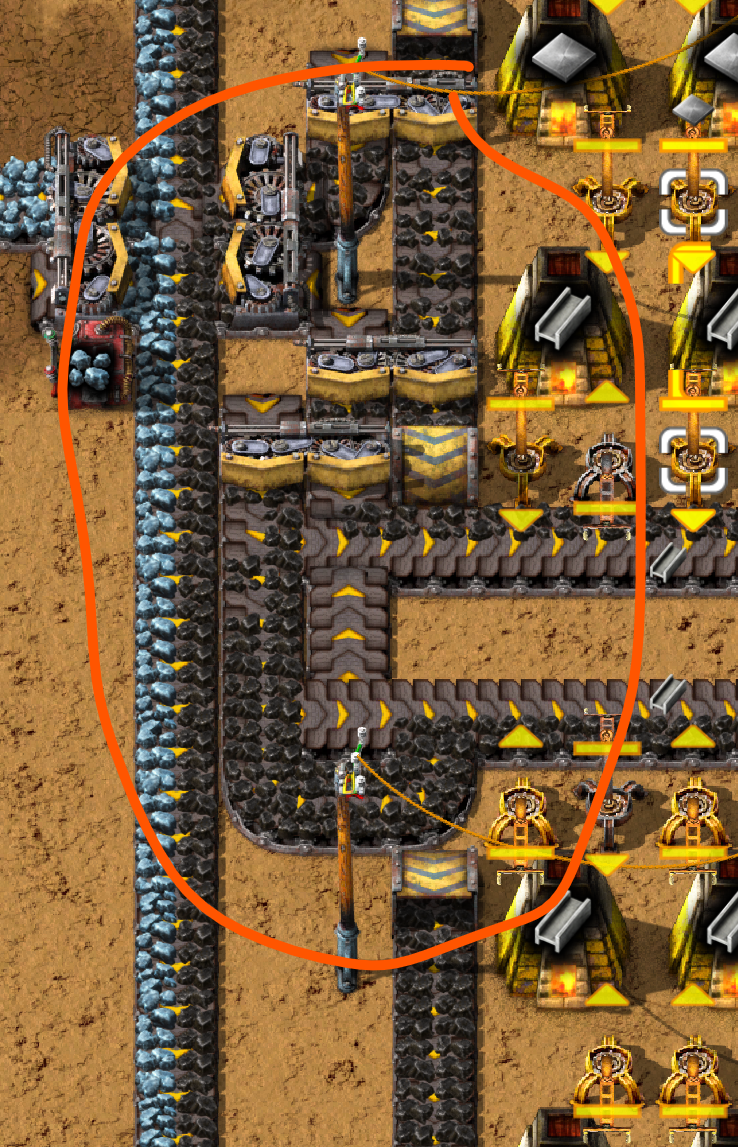
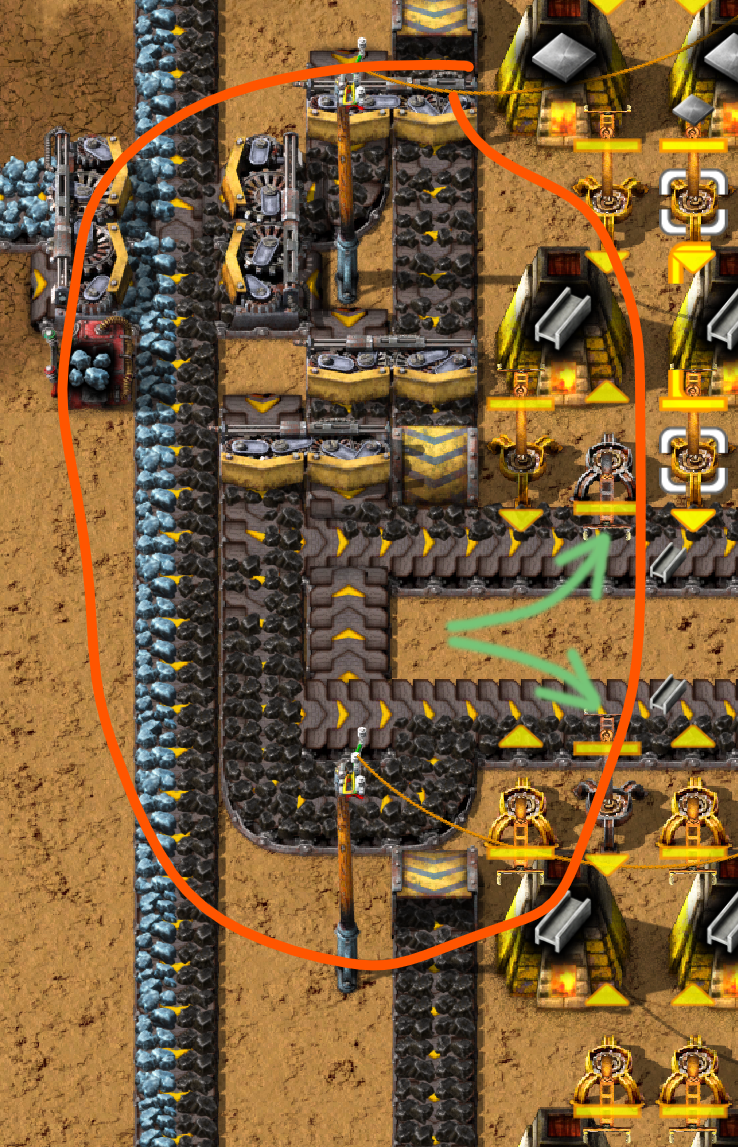
fixed some issues

Changed region(s): [[0.5921, 0.4577, 0.8415, 0.6408]]

diff --git a/docs/RawResourcesProcessing/README.md b/docs/RawResourcesProcessing/README.md
@@ -22,7 +22,7 @@
 
 ![ручная плавка в начале игры](../_images/MiningResources/MiningResources.02.png)
 
-## Теория плавления ресурсов и кузницы
+## Теория плавления ресурсов
 
 Наука сия в *Factorio* весьма скучна. Нужно просто помнить соотношения плавки к транспортировке и просто копипастить предлагаемые чертежи `Blueprint` без особого осмысления. Кому скучно переходите к [следующей главе](#чертежи-для-плавки-руд), там будут готовые чертежи, а задротов и очкариков виллкоммен тута.
 
@@ -101,7 +101,7 @@
 
 > На самом деле нужно делить не ровно пополам, а с прикупом на одну печь. Это избавит от иногда случающихся перекосов. А они почему-то случаются и образуют неравномерную разгрузко-погрузку. Правда это случается довольно редко и только на полностью загруженно-разгружаемой кузнице, когда все печи работают без остановки. То есть можно и забить на эту редкую ситуацию, всё равно стальные печи после запуска первого спутника пойдут улучшаться до электрических.
 
-Ориентируйтесь по маркерам на постоянных комбинаторах `Constant combinator` на середине кузницы, которые указывают где нужно остановить ли начать обновление.
+Ориентируйтесь по маркерам на постоянных комбинаторах `Constant combinator` на середине кузницы, которые указывают где нужно остановить или начать обновление.
 :::
 
 Также, заменяем твёрдотопливные манипуляторы на обычные, хотя можно и не спешить, если ресурсов добывается мало. Не забываем подать ещё один простой конвейер ресурсов на вход и вуаля:
@@ -118,6 +118,8 @@
 ![Сравнение затрат конвейеров](../_images/HowToStartNewGame/Belts.01.png)
 
 Просто сравните: за три железные руды можно поставить параллельно две единицы обычного конвейера, которые дадут пропускную способность одного быстрого конвейера, который стоит аж одиннадцать железных руд, плюс время на его создание.
+
+Улучшать разделитель `Splitter` подающий ресурсы для плавки не нужно, он вполне справляется с двумя простыми конвейерами. А вот в конце чертежа, имеет смысл раскошелится на быстрый разделитель `Fast splitter`, который выдаст два простых конвейера выплавленного и которые обходятся гораздо дешевле одного быстрого конвейера.
 :::
 
 Важным подспорьем в обновлении с каменных печей становятся роботы `Construction robot`, с ними обновиться так вообще как два пальца об чертёж. Вот планы обновления:
@@ -131,13 +133,11 @@
 ```
 
 :::info К чему бы придраться?
-
-Может показаться, что опоры ЛЭП установлены не оптимально, ведь любой школьник знает как ставить правильно, по одной на три печи с симметрией, а загружающие манипуляторы должны быть всегда установлены с ближнего края загрузки:
+Может показаться, что опоры ЛЭП установлены не оптимально, ведь любой школьник знает как ставить правильно. А именно, по одной опоре на три печи с симметрией, а загружающие манипуляторы должны быть всегда установлены с ближнего края загрузки:
 
 ![Раскадровки плавки печами](../_images/RawResourcesProcessing/RawProcessing.17.png)
 
 Однако, хотя школьники и правы, но предлагаемый чертёж не увеличивает количество ЛЭП. А вот киллерфича тут такая, что сдвоенные манипуляторы легче прокликать [манипулятором типа мышь](https://duckduckgo.com/?q=%D0%BC%D0%B0%D0%BD%D0%B8%D0%BF%D1%83%D0%BB%D1%8F%D1%82%D0%BE%D1%80+%D1%82%D0%B8%D0%BF%D0%B0+%D0%BC%D1%8B%D1%88%D1%8C+%D1%81+%D1%88%D0%B0%D1%80%D0%B8%D0%BA%D0%BE%D0%B2%D1%8B%D0%BC+%D0%BC%D0%B0%D0%BD%D0%B8%D0%BF%D1%83%D0%BB%D1%8F%D1%82%D0%BE%D1%80%D0%BE%D0%BC) (аж на пол процента?). Это даст больше времени на другие дела, а кликать кузницу придётся полностью, обещанных выше роботов на момент обновления ещё не будет.
-
 :::
 
 ## Чертежи для плавки железной руды в стальные балки
@@ -168,11 +168,11 @@
[1 lines of base64/hex data omitted]
 ```
 
-Для печей выплавляющих стальные балки, важно подавать уголь только на ближней стороне конвейера, так как на дальнюю печи будут выгружать выплавленные балки. Обратите внимание на распределение угля в этих чертежах. Гуляющие по интернетам подобные чертежи имеют не оптимальную реализацию подачи угля из докучи не нужных подземных конвейеров `Underground belt`. Тут предлагается исправленный вариант с меньшим количеством подземных конвейеров:
+Для печей выплавляющих стальные балки, важно подавать уголь только на ближней стороне конвейера, так как на дальнюю печи будут выгружать выплавленные балки. Обратите внимание на распределение угля в этих чертежах. Гуляющие по интернетам подобные чертежи имеют не оптимальную реализацию подачи угля из докучи не нужных подземных конвейеров `Underground belt`. Тут предлагается исправленный вариант с меньшим количеством подземных конвейеров (красная обводка):
 
 ![Исправленная ошибка подачи угля](../_images/RawResourcesProcessing/RawProcessing.09.png)
 
-Также можно заметить, что в печи плавящие непосредственно стальные балки загрузка топлива происходит посредством обособленных твёрдотопливных манипуляторов, которые не стоит улучшать.
+Также можно заметить, что в печи плавящие непосредственно стальные балки загрузка топлива происходит посредством обособленных твёрдотопливных манипуляторов, которые не стоит улучшать (зелёные стрелки).
 
 ## Плавим камушки
 
@@ -192,7 +192,7 @@
[1 lines of base64/hex data omitted]
 ```
 
-Ещё один не нужный чертёж:
+Как говорится, найди два отличия, от тех чертежей, что предлагаются для плавки руды. Ещё один не нужный чертёж:
 
 ![Самый не нужный чертёж в игре](../_images/RawResourcesProcessing/RawProcessing.19.png)
 
@@ -246,7 +246,7 @@
[1 lines of base64/hex data omitted]
 ```
 
-Отметим также, что не все линии нужно делать на быстрых конвейерах. Вспоминаем как мы обновлялись на стальные печи, тут усё то же самое.
+Отметим также, что не все линии нужно делать на быстрых конвейерах. Вспоминаем как мы обновлялись на стальные печи, тут усё то же самое, простые конвейеры прилагаются.
 
 И самый последний чертёж третьего уровня, для плавки одного экспресс-конвейера `Express transport belt`:
 
@@ -264,11 +264,11 @@
[1 lines of base64/hex data omitted]
 ```
 
-Отметим разницу, каменные кузницы на стальные обновлялись простой заменой с увеличением количества линий подачи. С электричеством так не получиться, кузница растёт в длину с ростом количества подающих конвейеров.
+Отметим разницу, каменные кузницы на стальные обновлялись простой заменой с увеличением количества конвейеров подачи ресурсов. С электричеством так не получиться, кузница растёт в длину с ростом количества подающих конвейеров.
 
 ## Модули производительности и гигаватты мегаваттов
 
-Однако, для любителей модулей производительности, есть более или менее рабочие варианты с использованием маяков `Beacon` и модулей третьего уровня. Но помните, что липестричества маяки тянут немеряно, может не хватить никаких ядерных электростанций. Примерный расчёт следующего чертежа показывает, что на выплавку одного экспресс-конвейера `Express transport belt` руды, нужно где-то 47 мегаватт электричества. То есть, на дюжину конвейеров потребуется почти полгигаватта энергии. Любуйтесь:
+Однако, для любителей модулей производительности, есть более или менее рабочие варианты с использованием маяков `Beacon` и модулей третьего уровня. Но помните, что липестричества маяки тянут немеряно, даже если простаивают, может не хватить [никаких ядерных электростанций](../PowerProduction/HugeNuclearPowerPlant.md). Примерный расчёт следующего чертежа показывает, что на выплавку одного экспресс-конвейера `Express transport belt` руды, нужно где-то 47 мегаватт электричества. То есть, на дюжину конвейеров потребуется почти полгигаватта энергии. Любуйтесь:
 
 ![Плавим электрическими печами с модулями](../_images/RawResourcesProcessing/RawProcessing.13.png)
 
